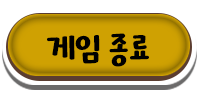
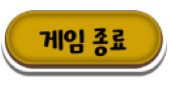
타이머 이미지 끝 안잘리도록 수정, 타이머 위치 조정, 화면 흔들림

diff --git a/GameMain/GDIGameTemplate/GameLogic/Objects/UIObject.cpp b/GameMain/GDIGameTemplate/GameLogic/Objects/UIObject.cpp
@@ -88,13 +88,16 @@ void UITimer::Init(CResourceManager* CRM, Vector2 myPos, Event* myEvent, float _
 	m_BitmapBack = CRM->LoadBitmapResouce(L"timerBack", L"UI_Image_Stage_TimeBar_Off_01.png");
 	m_BitmapBar = CRM->LoadBitmapResouce(L"timerbar", L"UI_Image_Stage_TimeBar_On_01.png");
 	m_BitmapClock = CRM->LoadBitmapResouce(L"timerClock", L"UI_Image_Stage_TimeBar_Off_02.png");
+	m_BitmapLeft = CRM->LoadBitmapResouce(L"timerLeft", L"UI_Image_Stage_TimeBar_On_Left_01.png");
+	m_BitmapRight = CRM->LoadBitmapResouce(L"timerRight", L"UI_Image_Stage_TimeBar_On_Right_01.png");
+
 	m_pos = myPos;
 	m_Event = myEvent;
 
-	cx = 600;
+	cx = 551;
 	cy = 50;
 
-	deltaCx = 600;
+	deltaCx = 551;
 	setTime = _setTime;
 	deltaTime = _setTime;
 }
@@ -142,9 +145,13 @@ void UITimer::Update(float delta) {
 
 void UITimer::Render(float alpha) {
 	if (m_isActive == false) return;
-	Render::DrawBitmap(m_pos.x, m_pos.y, m_BitmapBack, 0, 0, cx, cy);
-	Render::DrawBitmap(m_pos.x, m_pos.y, m_BitmapBar, 0, 0, (UINT)deltaCx, cy);
-	Render::DrawBitmap(m_pos.x - 30, m_pos.y - 25, m_BitmapClock, 0, 0, 100, 100);
+	Render::DrawBitmap(m_pos.x, m_pos.y, m_BitmapBack, 0, 0, cx + 75, cy);
+	Render::DrawBitmap(m_pos.x + 12, m_pos.y, m_BitmapBar, 0, 0, (UINT)deltaCx, cy);
+
+	Render::DrawBitmap(m_pos.x, m_pos.y, m_BitmapLeft, 0, 0, 12, cy);
+	Render::DrawBitmap(m_pos.x + deltaCx + 12, m_pos.y, m_BitmapRight, 0, 0, 12, cy);
+
+	Render::DrawBitmap(m_pos.x - 70, m_pos.y - 25, m_BitmapClock, 0, 0, 100, 100);
 	/*Render::DrawRect(m_pos.x, m_pos.y, cx, cy, RGB(255, 255, 255));
 	Render::DrawRect(m_pos.x, m_pos.y, (UINT)deltaCx, cy, RGB(255, 255, 0));*/
 }

diff --git a/GameMain/GDIGameTemplate/GameLogic/Objects/Object.cpp b/GameMain/GDIGameTemplate/GameLogic/Objects/Object.cpp
@@ -182,7 +182,34 @@ Vector2 Object::GetPosition() {
 	return m_pos;
 }
 
+MoveObject::MoveObject(Object* _moveObj, Vector2 _endPosition, float _intervalTime)
+{
+	moveObj = _moveObj;
+	endPosition = _endPosition;
+	intervalTime = _intervalTime;
+	startPosition = moveObj->m_pos;
+	t = 0.f;
+}
 
+void MoveObject::Update(float delta)
+{
+	if (t < 1.f) {
+		t += delta / intervalTime;
+		if (t > 1.f) {
+			t = 1.f;
+		}
+	}
 
+	moveObj->m_pos.x = EaseInOutCurve(startPosition.x, endPosition.x, t);
+	moveObj->m_pos.y = EaseInOutCurve(startPosition.y, endPosition.y, t);
+}
 
+float EaseInOutCurve(float startPos, float endPos, float t) {
+	float value = t < 0.5f ? 0.5f * powf(2.f * t, 2) : 0.5f * (2.f - powf(2.f * (1.f - t), 2));
+	return startPos + (endPos - startPos) * value;
+}
 
+void MoveObject::Render(float alpha)
+{
+
+}

diff --git a/GameMain/GDIGameTemplate/Manager/GameManager.cpp b/GameMain/GDIGameTemplate/Manager/GameManager.cpp
@@ -54,19 +54,22 @@ namespace Game
 		SMInstance->LoadMusic(mySound::eSoundList::Water, false, "Sound_Kid Voice_01.wav");
 		*/
 
-		
+		m_cameraPosition = { 0.f, 0.f };
 
 		m_sceneManager = SceneManager::GetInstance();
 		m_sceneManager->Init();
 		m_curScene = m_sceneManager->GetCurScene();
 		
 	}
-
+	float timer = 0.f;
 	void GameManager::Update()
 	{
 		++m_UpdateCount;
 
 		Input::UpdateMouse();
+
+		/*timer += High_Resolution_Time::GetDeltaTime() / 110.f;
+		m_cameraPosition = { sinf(timer) * 7 - 4, sinf(timer * 1.3f) * -3 };*/
 
 		if (Input::IsKeyDown('1')) {
 			m_sceneManager->SetCurScene((UINT)SceneType::START);

diff --git a/GameMain/GDIGameTemplate/GameLogic/Objects/Object.h b/GameMain/GDIGameTemplate/GameLogic/Objects/Object.h
@@ -72,6 +72,19 @@ struct Object
 	}
 };
 
+class MoveObject : public Object {
+	Object* moveObj;
+	Vector2 startPosition;
+	Vector2 endPosition;
+	float t;
+	float intervalTime;
+public:
+	MoveObject(Object* _moveObj, Vector2 _endPosition, float _intervalTime);
+	void Update(float delta) override;
+	void Render(float alpha) override;
+	void OnTrigger() override {}
+};
+float EaseInOutCurve(float startPos, float endPos, float t);
 //struct UIObject : public Object{
 //	void Init() override;
 //	void Update(float delta) override;

diff --git a/GameMain/GDIGameTemplate/Scene/Stage02.cpp b/GameMain/GDIGameTemplate/Scene/Stage02.cpp
@@ -104,7 +104,7 @@ void Stage02::Init()
 	SelectScnEvent* e_nextScn = new SelectScnEvent((UINT)SceneType::Dialog3);
 	AddEvent(e_nextScn);
 
-	UITimer* myTimer = new UITimer(CRM, Vector2{ 310,100 }, e_nextScn, 40.0f/*40.f*/);
+	UITimer* myTimer = new UITimer(CRM, Vector2{ 353, 14 }, e_nextScn, 40.0f/*40.f*/);
 	myTimer->remainningTimeEvent = e_feedBack7;
 	EndgameEvent* e_endGame = new EndgameEvent(m_Player);
 	myTimer->gameOverTimerEvent = e_endGame;

diff --git a/GameMain/GDIGameTemplate/Scene/Stage03.cpp b/GameMain/GDIGameTemplate/Scene/Stage03.cpp
@@ -104,7 +104,7 @@ void Stage03::Init()
 	SelectScnEvent* e_nextScn = new SelectScnEvent((UINT)SceneType::Dialog4);
 	AddEvent(e_nextScn);
 
-	UITimer* myTimer = new UITimer(CRM, Vector2{ 310,100 }, e_nextScn, 40.0f/*40.f*/);
+	UITimer* myTimer = new UITimer(CRM, Vector2{ 353, 14 }, e_nextScn, 40.0f/*40.f*/);
 	myTimer->remainningTimeEvent = e_feedBack7;
 	EndgameEvent* e_endGame = new EndgameEvent(m_Player);
 	myTimer->gameOverTimerEvent = e_endGame;

diff --git a/GameMain/GDIGameTemplate/Scene/Stage04.cpp b/GameMain/GDIGameTemplate/Scene/Stage04.cpp
@@ -103,7 +103,7 @@ void Stage04::Init()
 	SelectScnEvent* e_nextScn = new SelectScnEvent((UINT)SceneType::Dialog5);
 	AddEvent(e_nextScn);
 
-	UITimer* myTimer = new UITimer(CRM, Vector2{ 310,100 }, e_nextScn, 40.0f/*40.f*/);
+	UITimer* myTimer = new UITimer(CRM, Vector2{ 353, 14 }, e_nextScn, 40.0f/*40.f*/);
 	myTimer->remainningTimeEvent = e_feedBack7;
 	EndgameEvent* e_endGame = new EndgameEvent(m_Player);
 	myTimer->gameOverTimerEvent = e_endGame;

diff --git a/GameMain/GDIGameTemplate/Scene/Stage05.cpp b/GameMain/GDIGameTemplate/Scene/Stage05.cpp
@@ -106,7 +106,7 @@ void Stage05::Init()
 	SelectScnEvent* e_nextScn = new SelectScnEvent((UINT)SceneType::Ending);
 	AddEvent(e_nextScn);
 
-	UITimer* myTimer = new UITimer(CRM, Vector2{ 310,100 }, e_nextScn, 40.0f);
+	UITimer* myTimer = new UITimer(CRM, Vector2{ 353, 14 }, e_nextScn, 40.0f);
 	myTimer->remainningTimeEvent = e_feedBack7;
 	EndgameEvent* e_endGame = new EndgameEvent(m_Player);
 	myTimer->gameOverTimerEvent = e_endGame;

diff --git a/GameMain/GDIGameTemplate/Scene/Stage01.cpp b/GameMain/GDIGameTemplate/Scene/Stage01.cpp
@@ -111,7 +111,7 @@ void Stage01::Init()
 	SelectScnEvent* e_nextScn = new SelectScnEvent((UINT)SceneType::Dialog2);
 	AddEvent(e_nextScn);
 	// 600*20 //353*14
-	UITimer* myTimer = new UITimer(CRM, Vector2{ 353 ,14  }, e_nextScn, 20.f);
+	UITimer* myTimer = new UITimer(CRM, Vector2{ 353, 14 }, e_nextScn, 20.f);
 	myTimer->remainningTimeEvent = e_feedBack7;
 	EndgameEvent* e_endGame = new EndgameEvent(m_Player);
 	AddEvent(e_endGame);

diff --git a/GameMain/GDIGameTemplate/Manager/GameManager.h b/GameMain/GDIGameTemplate/Manager/GameManager.h
@@ -52,7 +52,11 @@ namespace Game
 		int GetRoot();
 
 		void SetRoot(int root);
+
 		Ranking* m_Ranking;
+
+		Vector2 m_cameraPosition;
+
 	private:
 		static GameManager* instance;
 		SceneManager* m_sceneManager;
@@ -64,6 +68,7 @@ namespace Game
 		int m_FixedUpdateCount = { 0 };
 
 		int g_root;
+
 	};
 }
 
